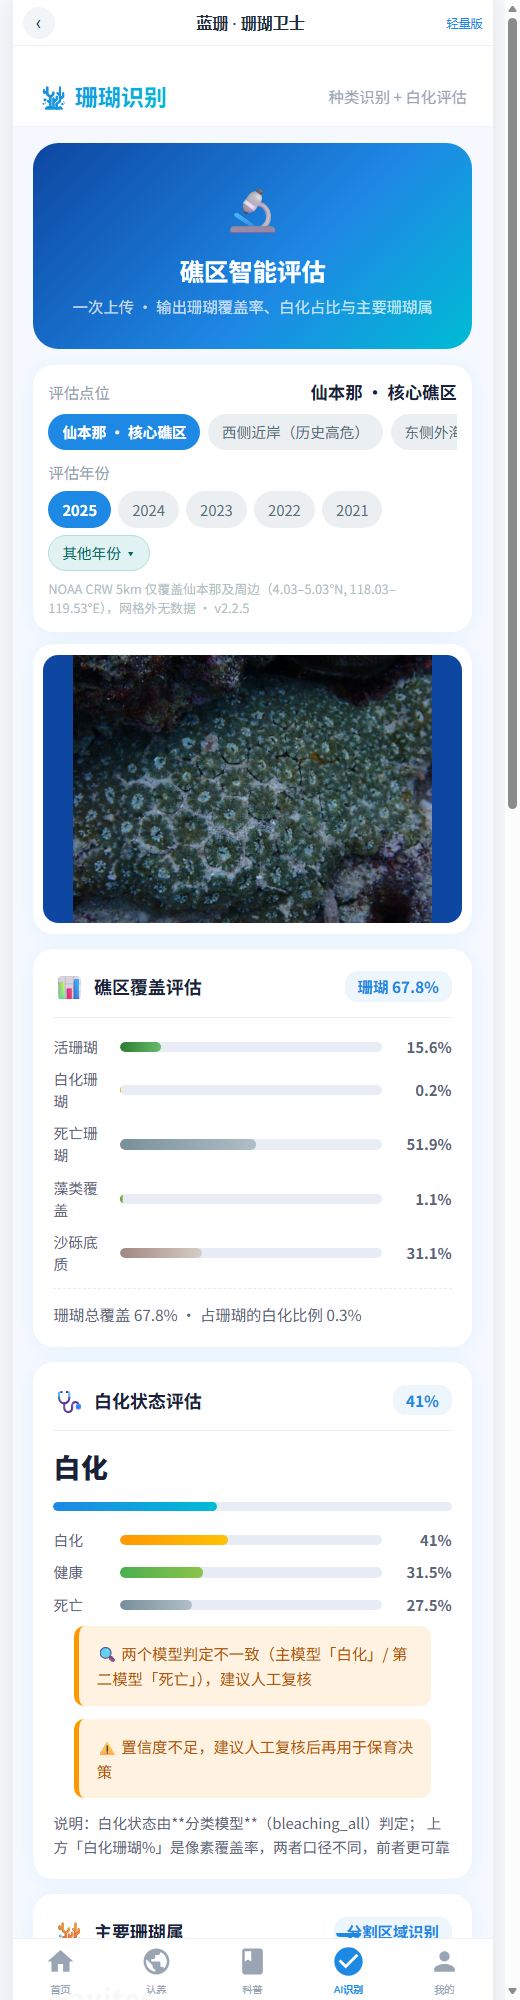
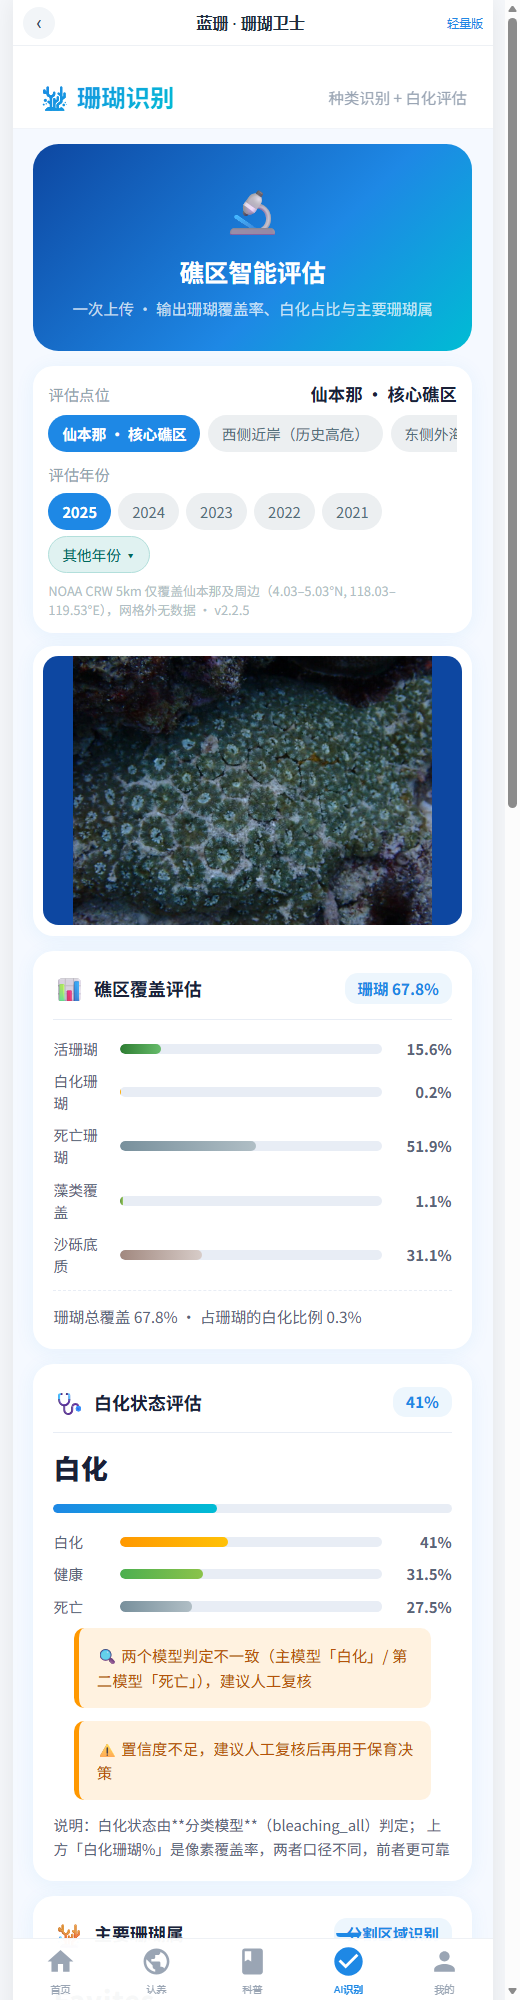
docs(README): 演示图全部重拍为当前版本（含新增的图鉴数据后台）
- demo_index：首页新品牌「🪸 蓝珊 / Reef-Blue」+ 统计口径说明（累计认养为演示样例）
- demo_ai_setup / demo_ai：AI 识别上传区，以及**真实识别结果**
  （礁区覆盖 67.8%、白化 41%、双模型不一致→提示人工复核）
- demo_knowledge / demo_species：科普页、全部珊瑚种类（225 条图鉴）
- demo_admin（新增）：珊瑚图鉴数据后台（225 条目 / 44 属 / 19 科，CSV 批量导入）
- 排版：4 张应用页并排 → 识别结果放大单列 → 后台宽图单列，各配图注
- 生成方式：web/_dev/_shot_driver.html 驱动真实页面（AI 结果那跑的是真权重真接口，非拼图）

diff --git a/README.md b/README.md
@@ -8,17 +8,22 @@
   <img src="docs/images/demo_index.png" width="150" alt="首页">
   <img src="docs/images/demo_ai_setup.png" width="150" alt="AI 识别 · 上传照片与选择点位/年份">
   <img src="docs/images/demo_knowledge.png" width="150" alt="科普">
-  <img src="docs/images/demo_species.png" width="150" alt="全部珊瑚种类">
+  <img src="docs/images/demo_species.png" width="150" alt="全部珊瑚种类（225 条图鉴）">
 </p>
-<p align="center"><sub>首页 · AI 识别（上传与点位/年份）· 科普 · 全部珊瑚种类（网页版真实运行截图；小程序是同一套页面代码，共 23 页）</sub></p>
+<p align="center"><sub>首页 · AI 识别（上传与点位/年份）· 科普 · 全部珊瑚种类（225 条图鉴；网页版真实运行截图，小程序同一套页面代码共 23 页）</sub></p>
 
 <p align="center">
-  <img src="docs/images/demo_ai.png" width="330" alt="AI 识别真实结果：覆盖率 67.8% / 白化 41% / 双模型共识提示">
+  <img src="docs/images/demo_ai.png" width="330" alt="AI 识别真实结果：礁区覆盖 67.8% / 白化 41% / 双模型共识提示">
 </p>
 <p align="center"><sub>
 <b>AI 识别真实结果</b>：礁区覆盖 <b>67.8%</b>（活珊瑚 15.6% / 死亡 51.9% / 沙砾 31.1%）、整图白化 <b>41%</b>，<br>
 两个白化模型判定不一致时自动提示「<b>建议人工复核</b>」（共识弃权机制）
 </sub></p>
+
+<p align="center">
+  <img src="docs/images/demo_admin.png" width="560" alt="珊瑚图鉴数据后台：225 条目 / 44 属 / 批量导入与单条维护">
+</p>
+<p align="center"><sub>珊瑚图鉴数据后台（<code>/admin.html</code>）：225 条目 / 44 属 / 19 科，支持 CSV 批量导入与单条维护，科普页数据可自行更新</sub></p>
 
 ---
 
